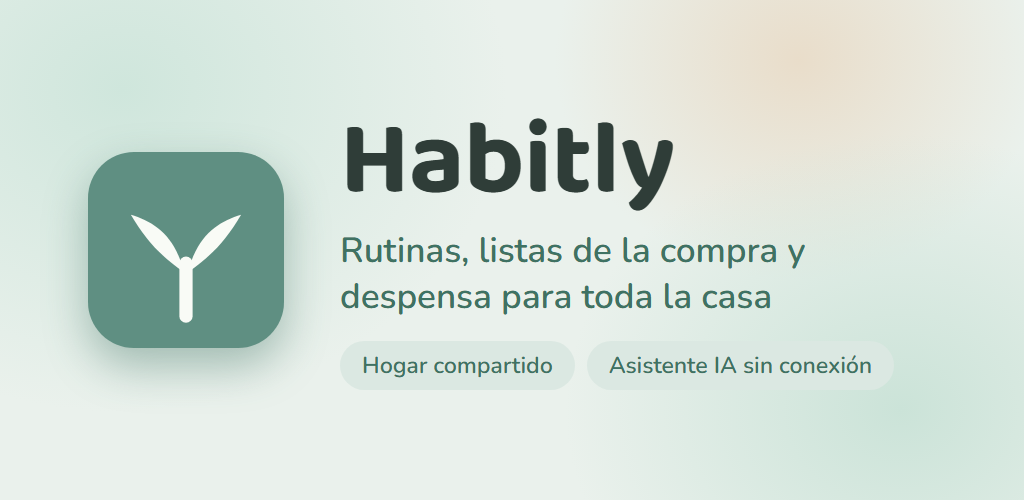
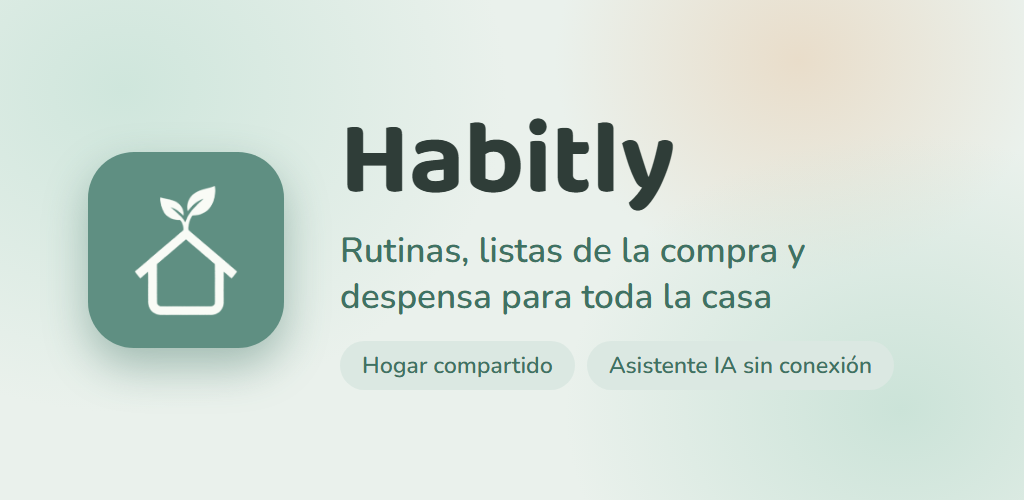
chore(play-store): regenerar el icono 512 y el gráfico destacado con la marca real
- icon-512.png deja de ser una captura de icon-512.html (SVG a mano) y pasa a
  salir de build-mark.py, con el mismo dibujo que el launcher. Se borra el HTML,
  que ya no genera nada.
- El gráfico destacado incrusta mark-cream.png en vez de repetir el SVG; hay que
  lanzarlo después del script porque consume ese PNG.

Changed region(s): [[0.125, 0.36, 0.25, 0.66]]

diff --git a/play-store/src/feature-graphic-1024x500.html b/play-store/src/feature-graphic-1024x500.html
@@ -40,11 +40,9 @@
 <body>
 <div class="canvas">
   <div class="mark">
-    <svg width="150" height="150" viewBox="20 20 68 68" xmlns="http://www.w3.org/2000/svg">
-      <path d="M54,84 L54,60" fill="none" stroke="#F9FBF6" stroke-width="6" stroke-linecap="round"/>
-      <path d="M55,64 C59,47 69,41 79,38 C72,50 65,57 55,64 Z" fill="#F9FBF6"/>
-      <path d="M53,64 C49,47 39,41 29,38 C36,50 43,57 53,64 Z" fill="#F9FBF6"/>
-    </svg>
+    <!-- mark-cream.png lo genera play-store/src/build-mark.py. 131 = 196 * 48/72:
+         la misma proporción que la marca dentro del recorte visible del launcher. -->
+    <img src="mark-cream.png" width="104" height="131" alt="">
   </div>
   <div class="copy">
     <h1>Habitly</h1>
